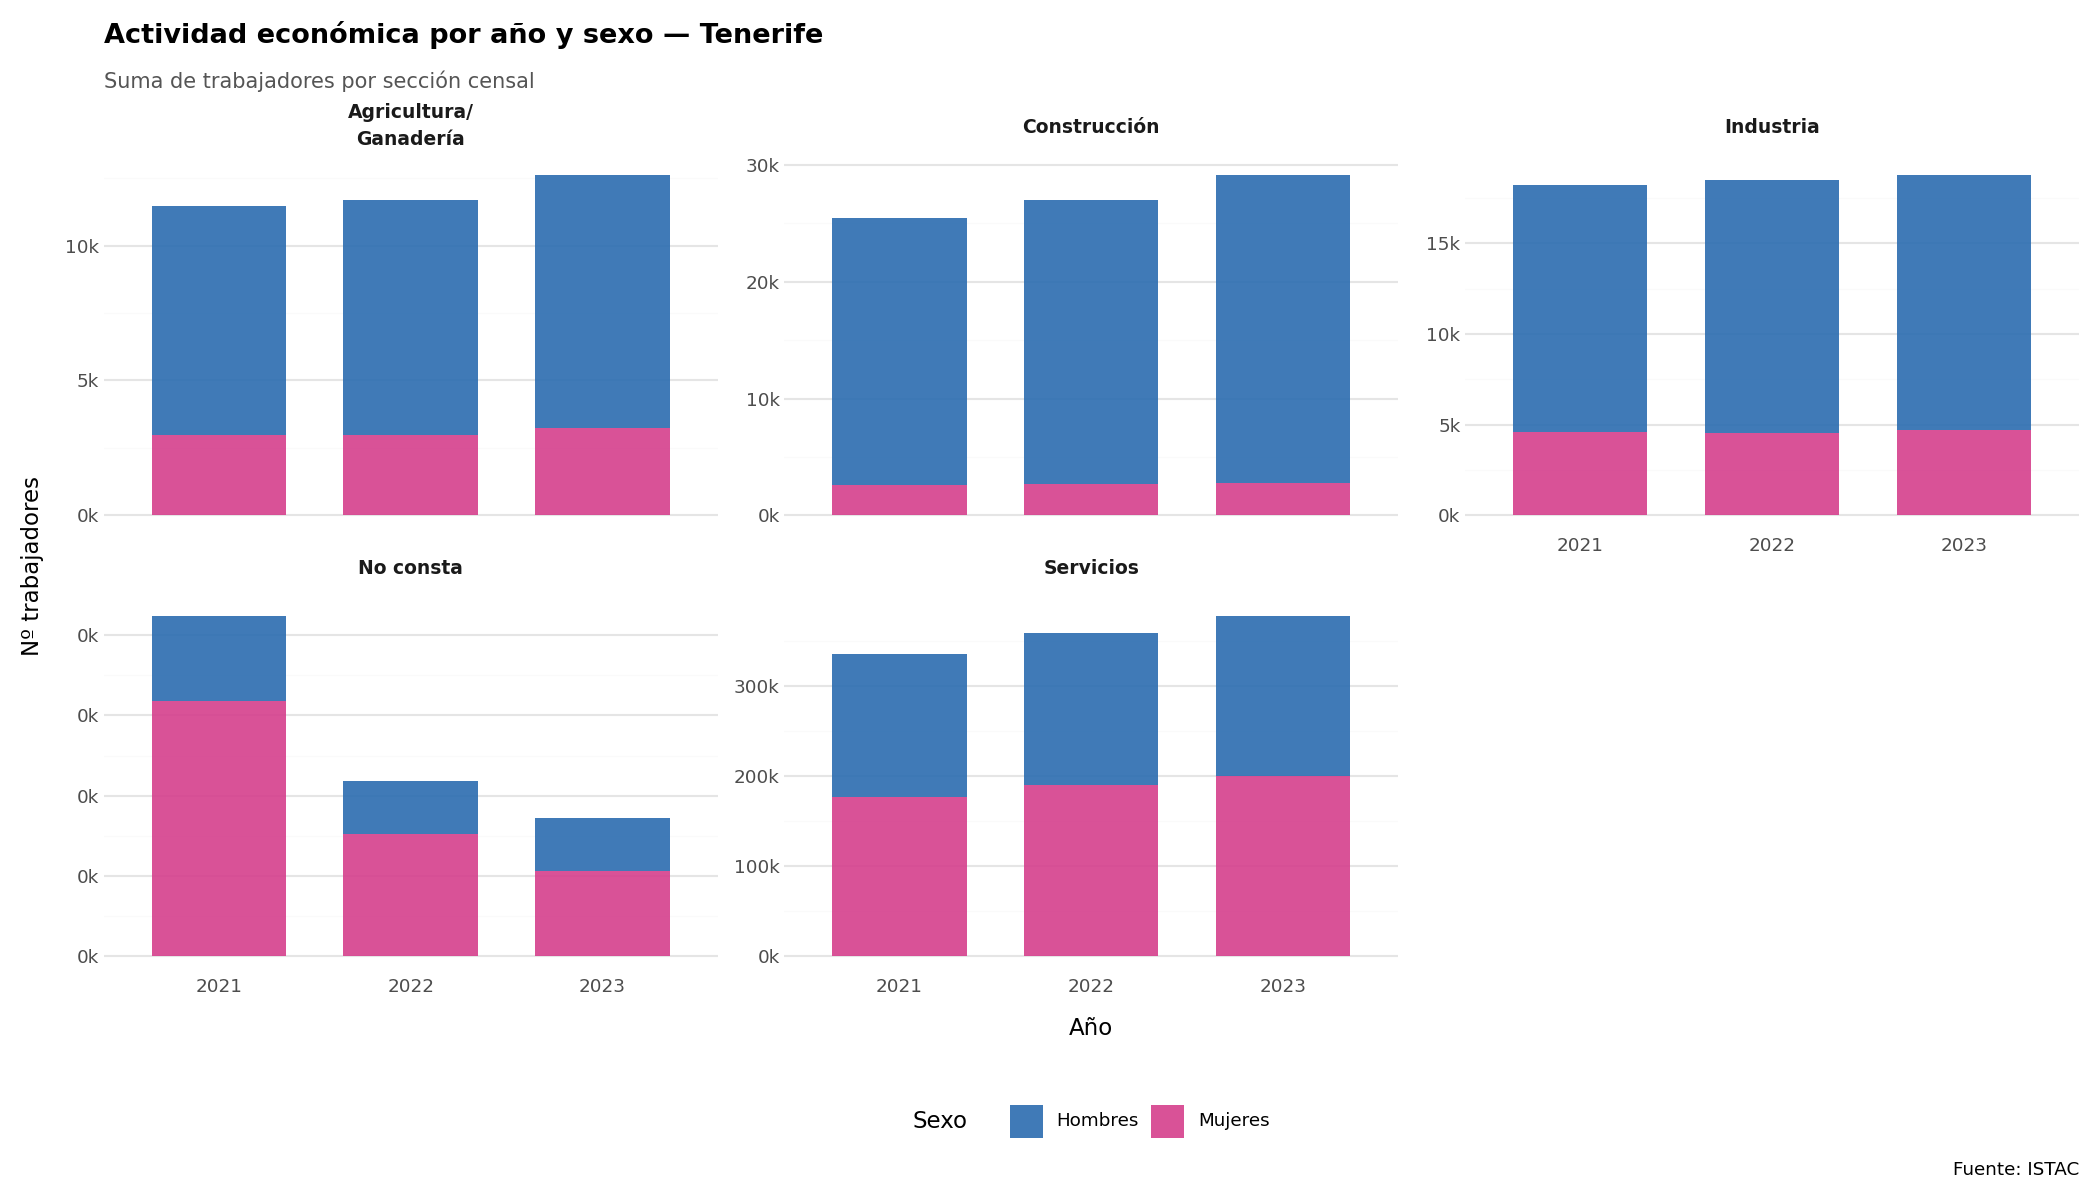
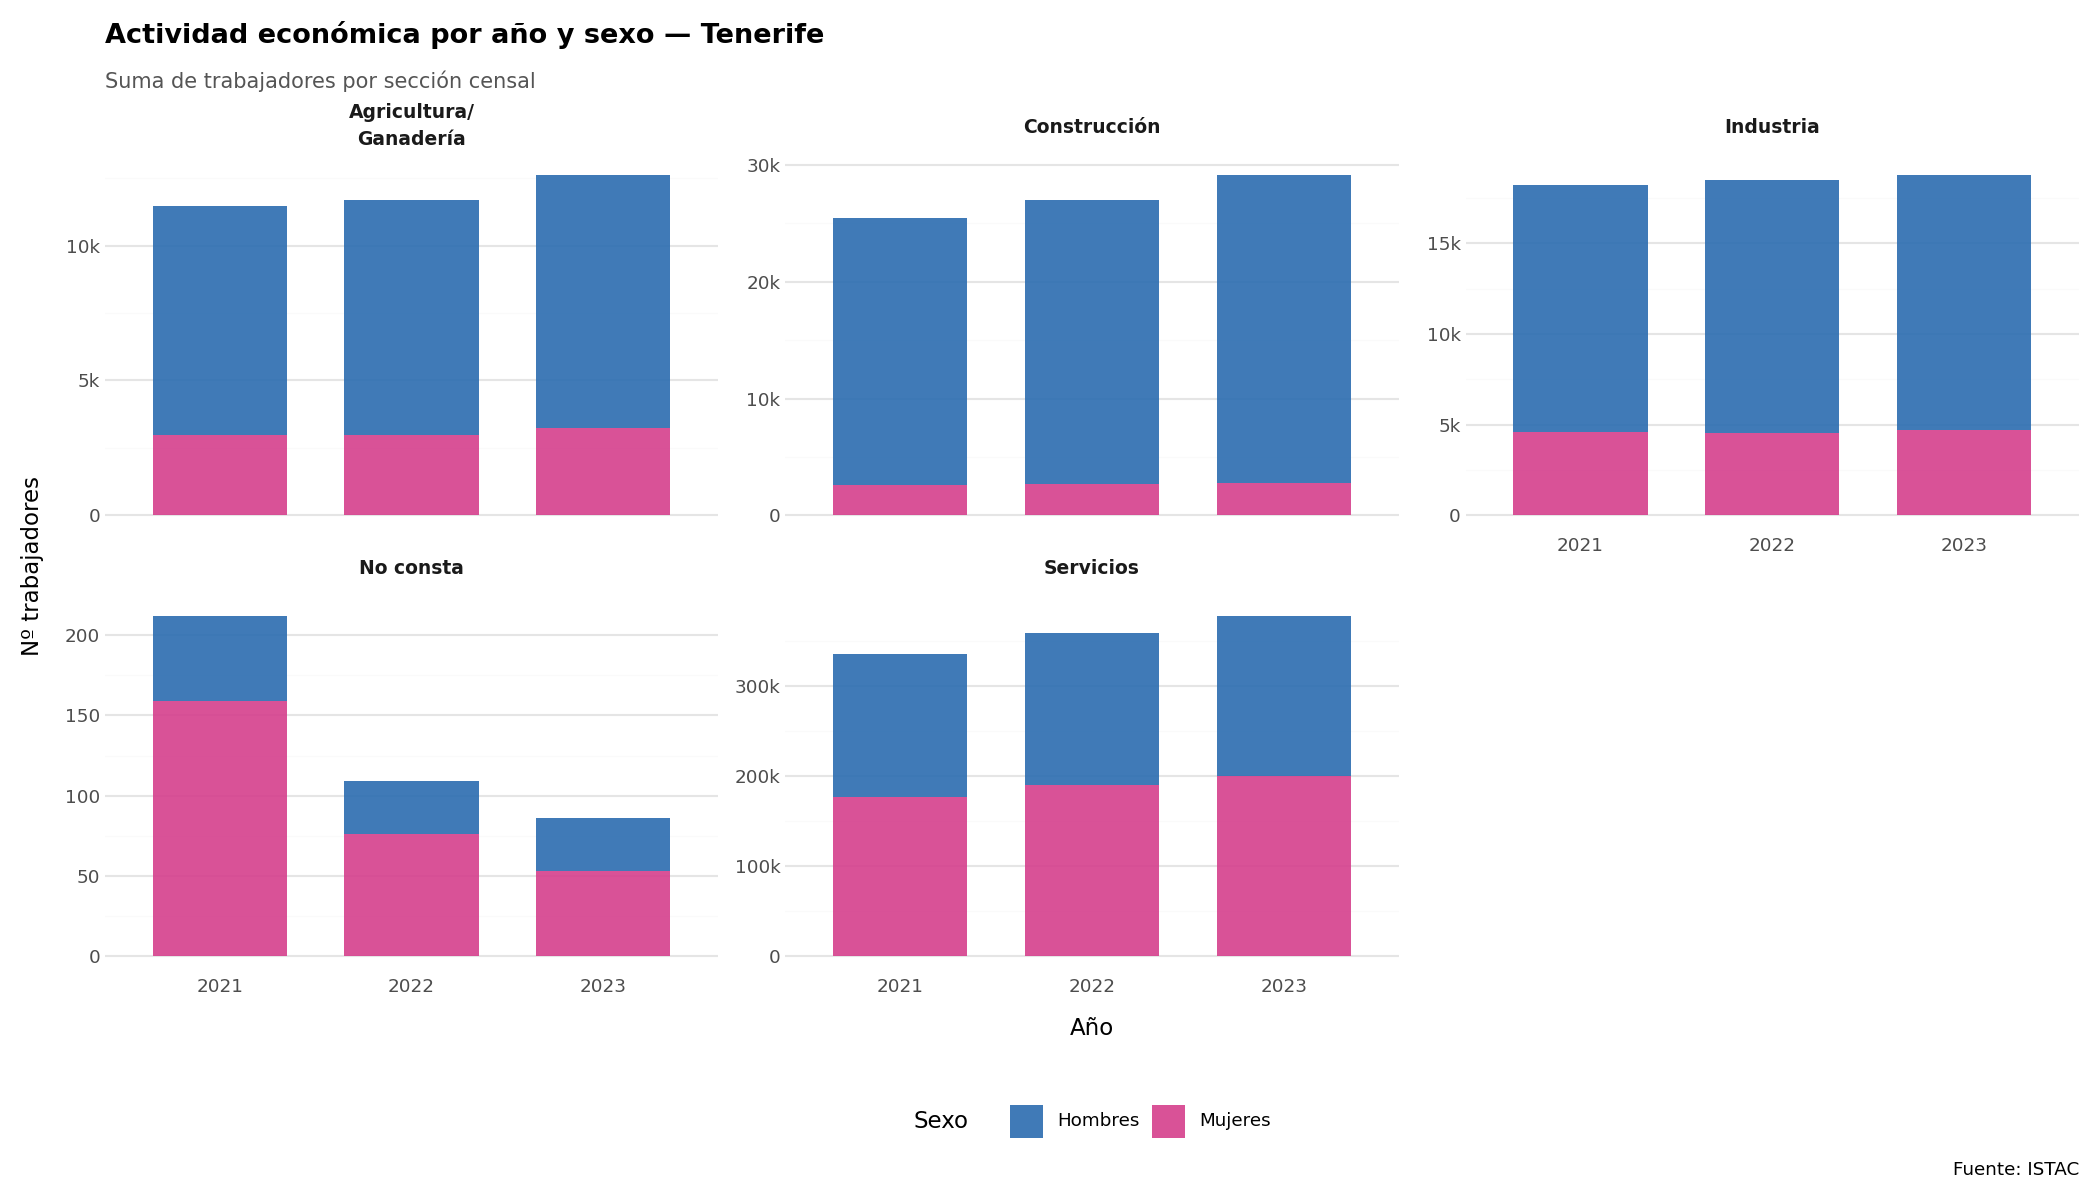
fix(assets): resolve geopandas prefix mismatch rendering blank maps and correct 0k axis formatting for sparse facets

diff --git a/assets_proyecto5/plots_assets.py b/assets_proyecto5/plots_assets.py
@@ -26,7 +26,11 @@ def get_plot_dir():
     return plot_dir
 
 def fmt_k(l):
-    return [f"{int(v/1000)}k" if pd.notna(v) else "" for v in l]
+    def format_num(v):
+        if pd.isna(v): return ""
+        if v >= 1000: return f"{v/1000:g}k"
+        return f"{v:g}"
+    return [format_num(v) for v in l]
 
 @asset(deps=[preprocesar_datos_p5], group_name="visualizaciones")
 def plot_distribucion_lineas(context: AssetExecutionContext) -> None:
@@ -235,7 +239,11 @@ def plot_mapa_distribucion_renta(context: AssetExecutionContext) -> None:
         context.log.warning(f"GeoJSON not found: {geojson_name}")
         return
         
-    gdf = gdf.merge(df_fil, left_on="geocode", right_on="TERRITORIO_CODE", how="left")
+    # Arreglo de cruce para sortear desajustes de prefijos de año (ej: 2024 vs 2023 en geocode)
+    gdf["sec_code"] = gdf["geocode"].apply(lambda x: "_".join(x.split("_")[1:]) if pd.notna(x) else x)
+    df_fil["sec_code"] = df_fil["TERRITORIO_CODE"].apply(lambda x: "_".join(x.split("_")[1:]) if pd.notna(x) else x)
+    
+    gdf = gdf.merge(df_fil, on="sec_code", how="left")
 
     fig, ax = plt.subplots(figsize=(14, 10))
 
@@ -313,7 +321,10 @@ def plot_mapa_generico(context: AssetExecutionContext) -> None:
         context.log.warning(f"No se detectó un GeoJSON ({geojson_name}). Asegurese de que reside en data-P5/cartografia-secciones/")
         return
         
-    gdf = gdf.merge(df_datos, left_on="geocode", right_on=col_geo, how="left")
+    gdf["sec_code"] = gdf["geocode"].apply(lambda x: "_".join(str(x).split("_")[1:]) if pd.notna(x) else x)
+    df_datos["sec_code"] = df_datos[col_geo].apply(lambda x: "_".join(str(x).split("_")[1:]) if pd.notna(x) else x)
+    
+    gdf = gdf.merge(df_datos, on="sec_code", how="left")
 
     fig, ax = plt.subplots(figsize=(14, 10))
     # Para geopandas plots muy finos
